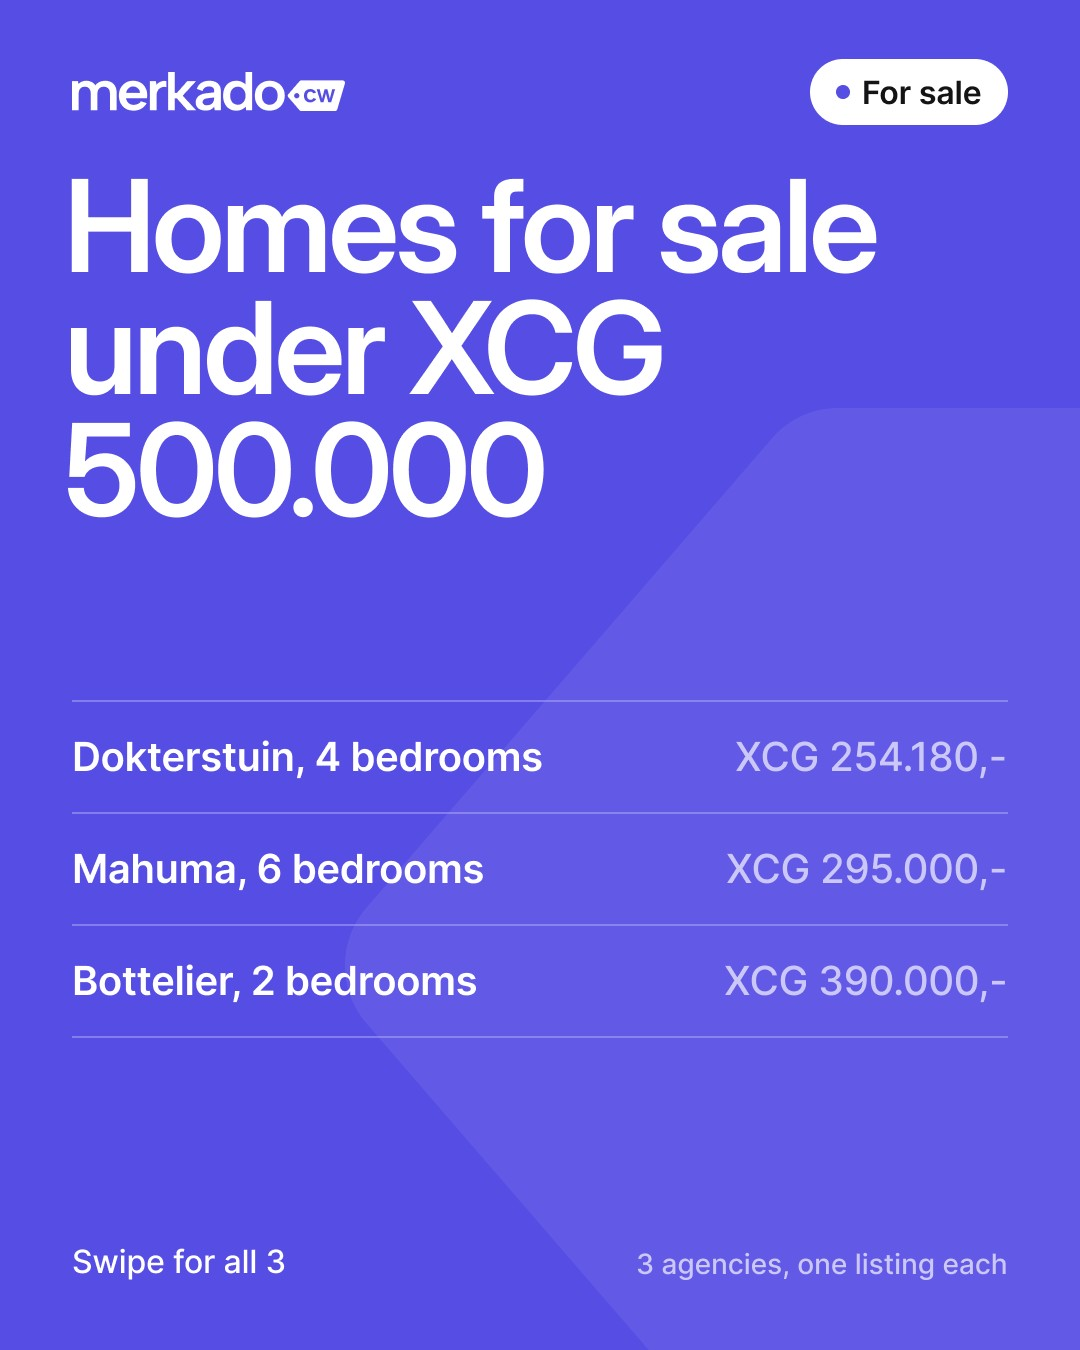
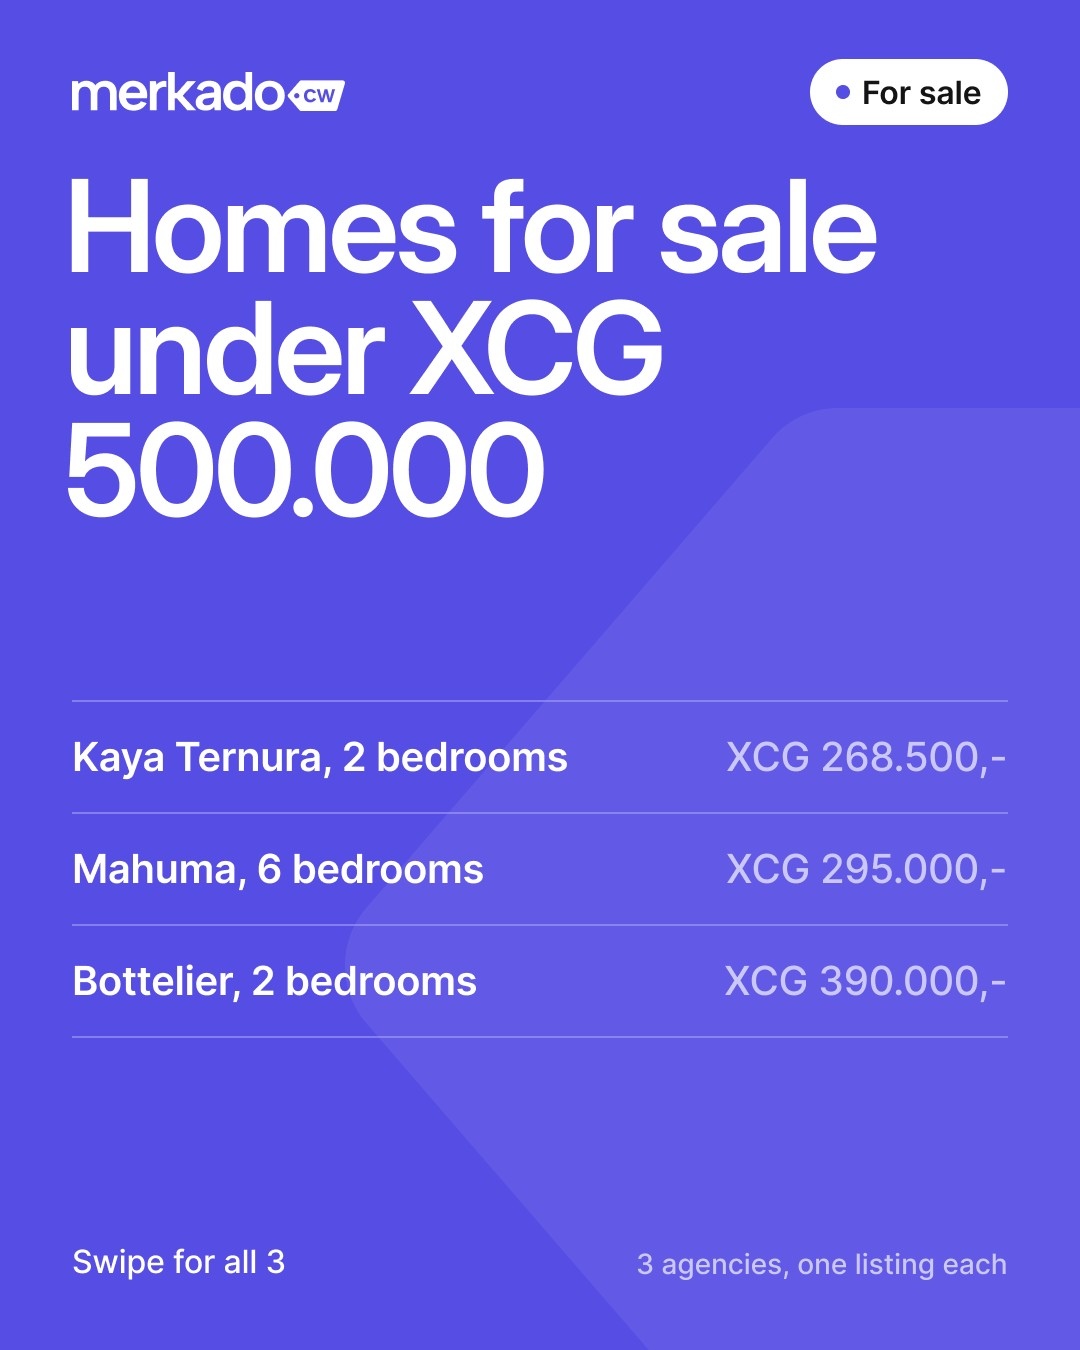
Wednesday homes carousel: replace Dokterstuin with Kaya Ternura (draft, needs approval)

Changed region(s): [[0.0611, 0.5289, 0.5194, 0.5911], [0.6722, 0.5289, 0.8861, 0.5911]]

diff --git a/captions/2026-W47.md b/captions/2026-W47.md
@@ -29,12 +29,12 @@ Alt: Paper Merkado story marked Price drop: XCG 2.950,- a month for a furnished 
 
 ## 3. Wed 18 Nov, 12:15 (was 18:30) · Feed (violet cover) · Homes for sale under XCG 500.000
 
-Metricool draft 429277407. Images `assets/2026-W47/2026-11-18_wed-homes-1..5` (Figma 122:305, 122:333, 122:357, 122:381, 122:405). Theme `sale-under-500000` (bargain; not used in the last 3 weeks).
+Metricool draft 429938569 (redrafted 17 Nov, replaces Dokterstuin, which Joubert tags Sold Pending notary). Images `assets/2026-W47/2026-11-18_wed-homes-1..5` (Figma 122:305, 122:333, 122:357, 122:381, 122:405). Theme `sale-under-500000` (bargain; not used in the last 3 weeks).
 ```
 Homes for sale under XCG 500.000, from three agencies on Merkado.
 
-1. Dokterstuin · XCG 254.180,-
-4-bedroom house on a large lot in Banda Abou · Joubert Realty (listed at USD 142.000)
+1. Kaya Ternura · XCG 268.500,-
+2-bedroom semi-detached house with a covered porch and carport · Joubert Realty (listed at USD 150.000)
 
 2. Mahuma · XCG 295.000,-
 Main house plus a second home on one lot, 6 bedrooms in total · Real Estate Caribe
@@ -49,7 +49,8 @@ Renting out or selling a home? You can list it free on merkado.cw
 Details come from each agency's listing. Always check the original listing and contact the agency for official details.
 ```
 Pre-flight 15 Nov (all three active in the merkado.cw API):
-- Dokterstuin 123, Joubert Realty: page live, For Sale, USD 142.000 (merkado.cw XCG 254.180), 4 bedrooms, 2 bathrooms. The Joubert page prints "/ per month" after the sale price (their template); the listing sits under For Sale. On merkado.cw since 13 Nov.
+- Kaya Ternura, Joubert Realty (replaces Dokterstuin 123, pulled 16 Nov): pre-flight 17 Nov: API active, page live, For Sale, USD 150.000 (merkado.cw XCG 268.500), 2 bedrooms, 1 bathroom, no sold or pending tag; mid-slide photo 4:3 from the listing, no AI. Mahuma and Bottelier re-checked 17 Nov: pages live, no sold tag on the listing itself.
+- (old, pulled) Dokterstuin 123, Joubert Realty: page live, For Sale, USD 142.000 (merkado.cw XCG 254.180), 4 bedrooms, 2 bathrooms. The Joubert page prints "/ per month" after the sale price (their template); the listing sits under For Sale. On merkado.cw since 13 Nov.
 - Maishiweg 5 and 5A, Mahuma, Real Estate Caribe: page live, For Sale, XCG 295,000, 6 bedrooms, 2 bathrooms (main house plus a second dwelling on the same lot, sold as is).
 - Bottelier apartment, Sunset Realtors: page live, Te koop, XCG 390.000, 2 bedrooms, 1 bathroom, 94 m².
 Skipped: Sun Valley 3-bedroom villa (RE/MAX hs3108, XCG 475.000): RE/MAX shows "Under contract" while merkado.cw lists it as active (data issue). Moret's Montaña new-build: render with a full-width logo bar (and Moret is in Tuesday's story). At Home's PODS bungalows: render. KW Hanenberg: logo across the photo.

diff --git a/docs/10-calendar.md b/docs/10-calendar.md
@@ -56,7 +56,7 @@ Planned and drafted by the weekly run on Sun 15 Nov. Captions, checks and Metric
 | --- | --- | --- | --- | --- | --- | --- |
 | Mon 16 Nov | 12:15 | Feed (paper) | M1 | The comment section, homes edition ("Price? Which area? Still for rent?? Pets allowed?") | Brand | scheduled (approved 16 Nov) |
 | Tue 17 Nov | 19:00 | Story | S2 (style B) | Furnished 3-bedroom house in Montaña for rent, XCG 2.950,- a month, was XCG 3.500,- until 10 Nov, Moret Real Estate | Verified price drop | scheduled (approved 16 Nov) |
-| Wed 18 Nov | 12:15 | Feed (violet) | Real estate carousel (5 slides) | Homes for sale under XCG 500.000, one per agency: Dokterstuin (Joubert Realty), Mahuma (Real Estate Caribe), Bottelier (Sunset Realtors) | Bargain | scheduled (approved 16 Nov) |
+| Wed 18 Nov | 12:15 | Feed (violet) | Real estate carousel (5 slides) | Homes for sale under XCG 500.000, one per agency: Kaya Ternura (Joubert Realty, replaces Dokterstuin, Sold Pending notary), Mahuma (Real Estate Caribe), Bottelier (Sunset Realtors) | Bargain | drafted 17 Nov, needs approval |
 | Thu 19 Nov | 19:00 | Story | S1 (style C) | 2020 Honda Accord, 41.500 km, XCG 38.500,-, listed directly on Merkado by a private seller (13 Nov) | Native listing, just added | scheduled (approved 16 Nov) |
 | Fri 20 Nov | 12:15 | Feed (paper) | Car carousel (5 slides) | Cars under XCG 15.000, one per seller: Range Rover Sport 2009 (Carteam), Nissan Versa 2018 (Economic), Volkswagen Up! 2019 (CuraCars) | Bargain | scheduled (approved 16 Nov) |
 
